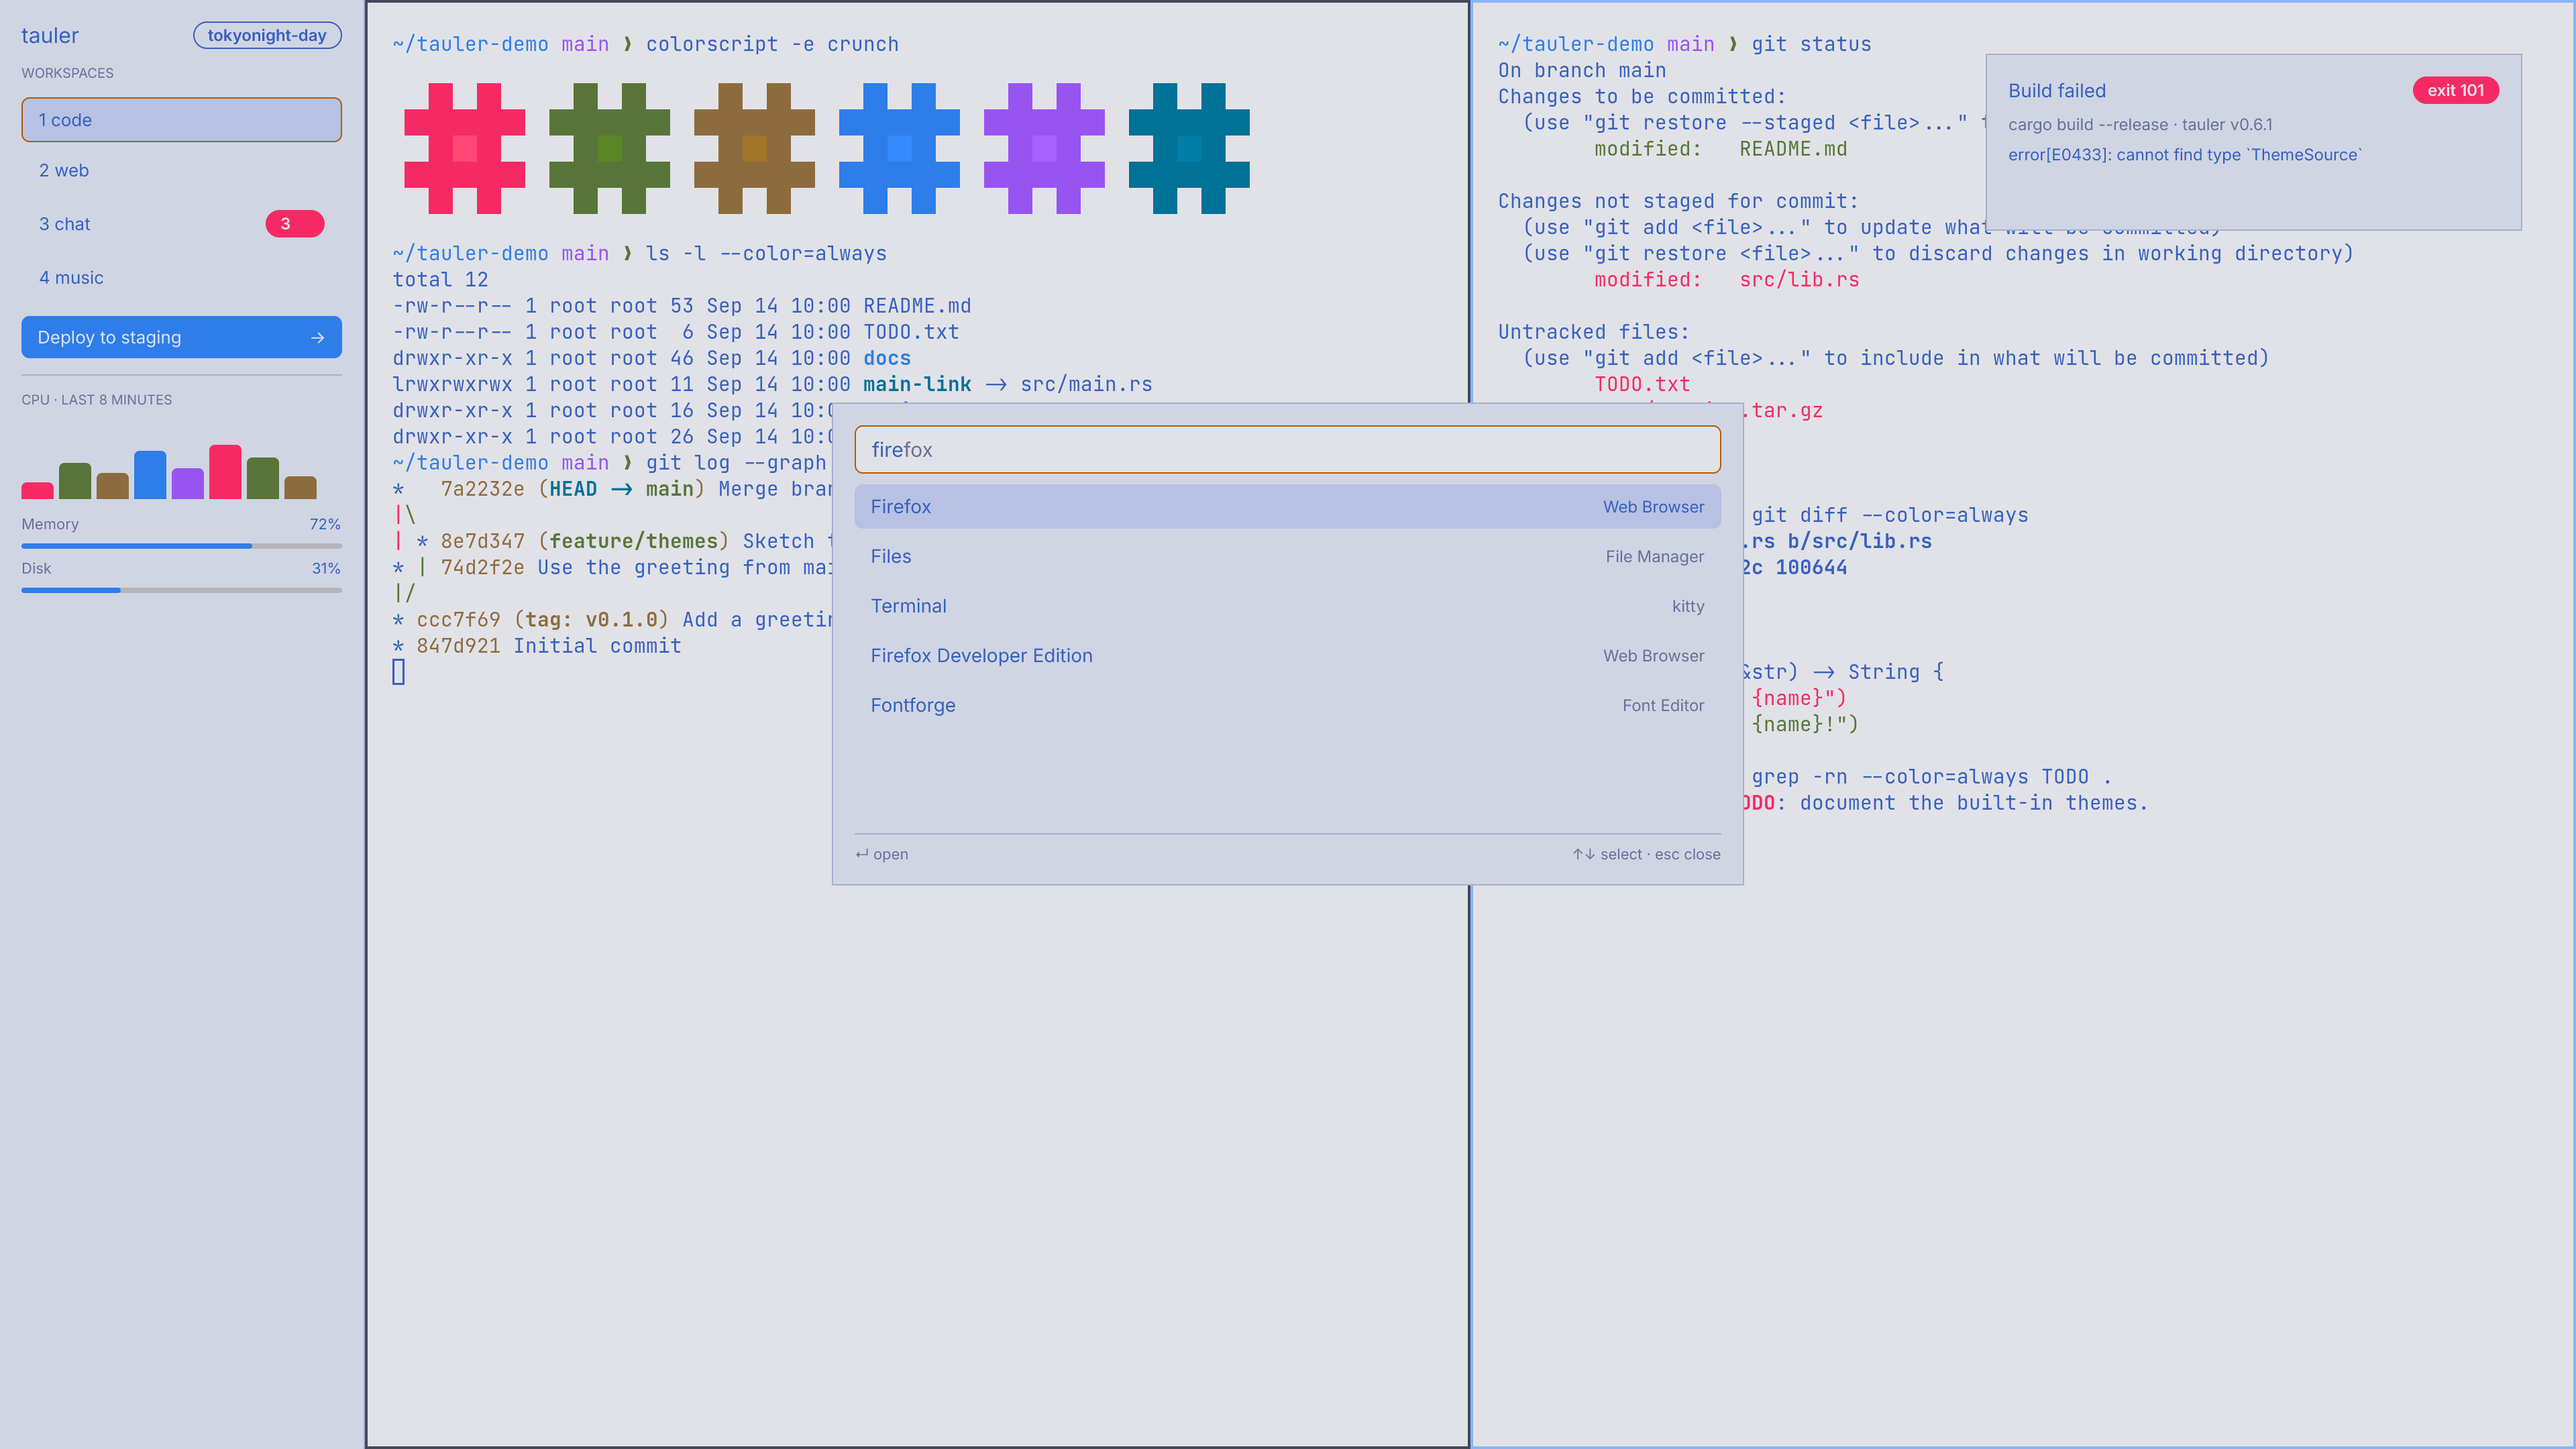
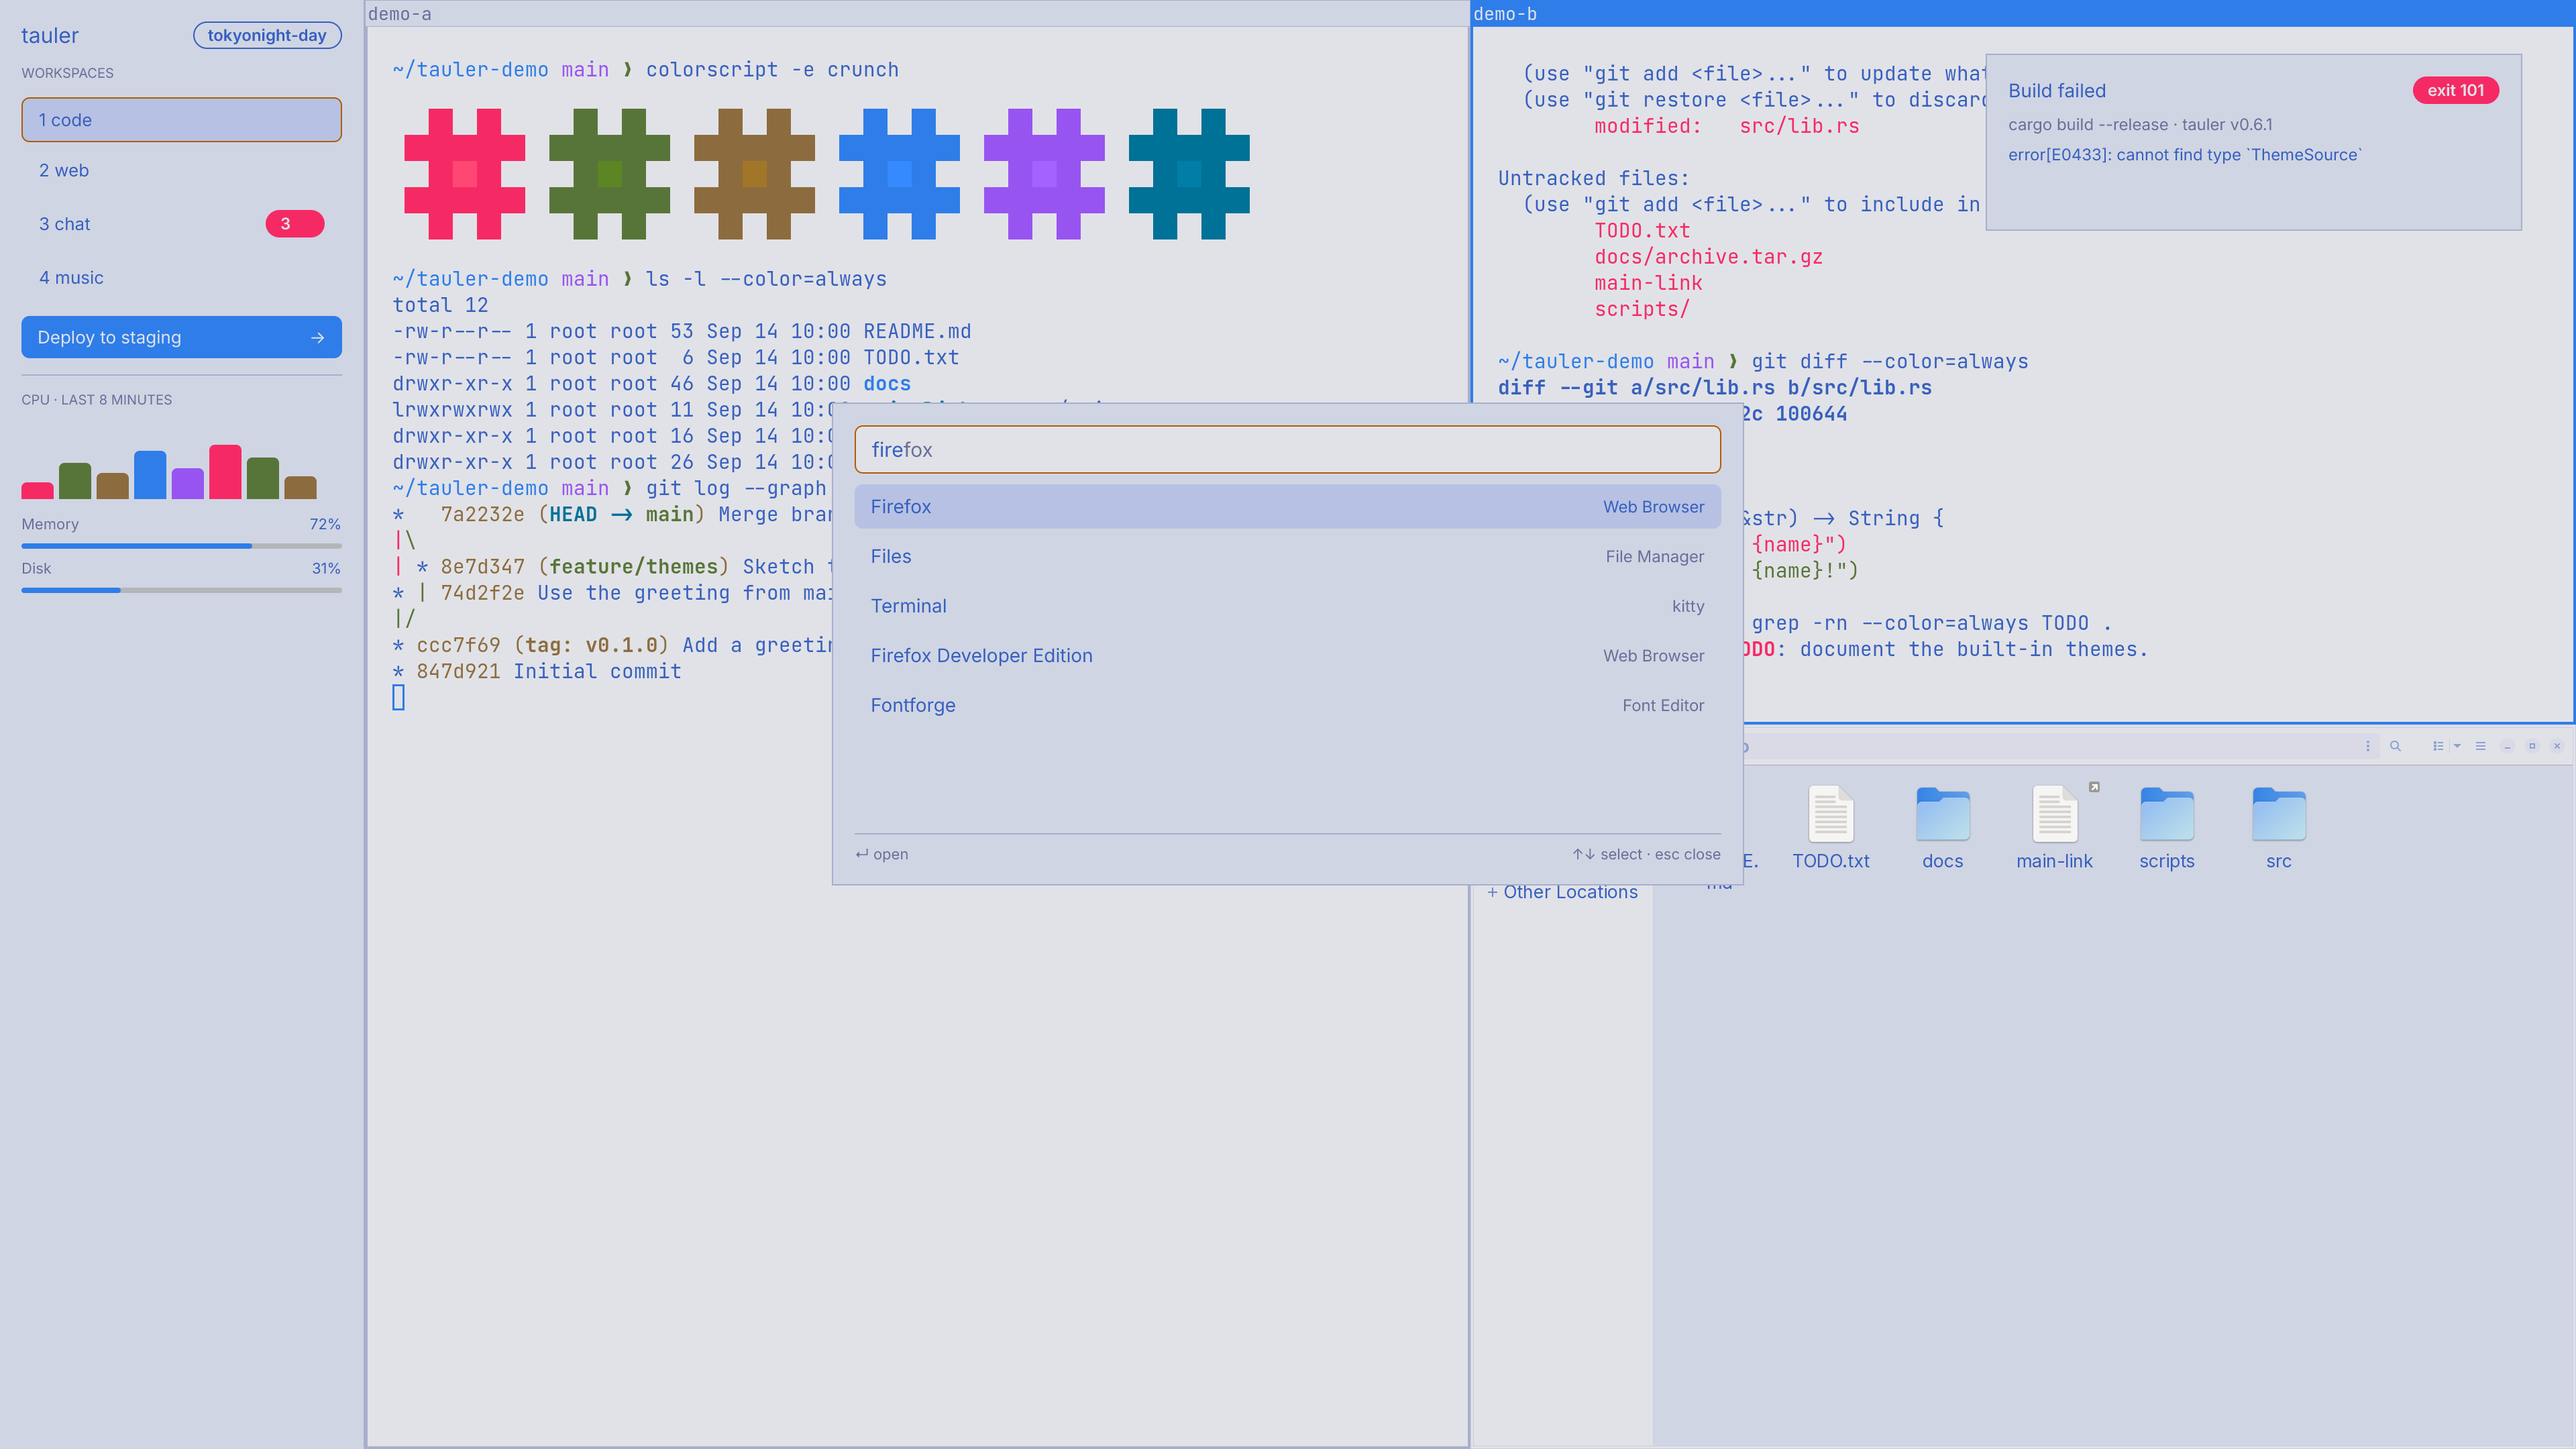
feat: improve themeing demos (#631)

diff --git a/tauler-e2e/tests/scenarios.rs b/tauler-e2e/tests/scenarios.rs
@@ -111,37 +111,24 @@ fn workspaces_frames_the_area_beside_the_sidebar() -> Result<()> {
     Ok(())
 }
 
-/// A kitty colours file for `theme`: its background, foreground and the 16 `ansi-*`
-/// tokens as `color0`..`color15`. This is the one place a terminal is told what the theme is —
-/// there is no layout-side API for it yet, so the test does it from the Rust `Theme` directly.
-fn kitty_colors(theme: &tauler_core::theme::Theme) -> String {
-    let colors = &theme.colors;
-    let get = |key: &str| {
-        colors
-            .get(key)
-            .unwrap_or_else(|| panic!("theme `{}` has no `{key}`", theme.name))
-            .clone()
-    };
-    let mut out = format!(
-        "background {}\nforeground {}\ncursor {}\nselection_background {}\nselection_foreground {}\n",
-        get("background"),
-        get("foreground"),
-        get("foreground"),
-        get("accent"),
-        get("accent-foreground"),
-    );
-    let names = [
-        "black", "red", "green", "yellow", "blue", "magenta", "cyan", "white",
-    ];
-    for (i, name) in names.iter().enumerate() {
-        out.push_str(&format!("color{i} {}\n", get(&format!("ansi-{name}"))));
-        out.push_str(&format!(
-            "color{} {}\n",
-            i + 8,
-            get(&format!("ansi-bright-{name}"))
-        ));
-    }
-    out
+/// How many pixels of `png` inside `x0..x1`, `y0..y1` are exactly `rgb`.
+fn pixels_of(
+    png: &std::path::Path,
+    x: std::ops::Range<u32>,
+    y: std::ops::Range<u32>,
+    rgb: [u8; 3],
+) -> usize {
+    let img = image::open(png).expect("decode screenshot").to_rgba8();
+    y.flat_map(|y| x.clone().map(move |x| (x, y)))
+        .filter(|&(x, y)| img.get_pixel_checked(x, y).is_some_and(|p| p.0[..3] == rgb))
+        .count()
+}
+
+/// `#rrggbb` as bytes.
+fn rgb_of(theme: &tauler_core::theme::Theme, token: &str) -> [u8; 3] {
+    let hex = &theme.colors[token];
+    let byte = |i: usize| u8::from_str_radix(&hex[1 + 2 * i..3 + 2 * i], 16).expect("hex colour");
+    [byte(0), byte(1), byte(2)]
 }
 
 /// What a built-in theme is expected to draw, written by hand from its theme file.
@@ -153,11 +140,11 @@ struct Palette {
 
 /// A built-in theme, selected by `theme.name` alone — no theme file in the fixture.
 ///
-/// The desktop is a left rail, two free-floating plates (a notification and a launcher) and two
-/// kitty terminals, each drawn from the tokens a UI would use for that surface. Pixels where
+/// The desktop is a left rail, two free-floating plates (a notification and a launcher), two
+/// kitty terminals and a GTK4 file manager (Nautilus), each drawn from the tokens a UI would use for that surface. Pixels where
 /// nothing else is drawn are therefore exact tokens: the rail's bottom edge is the theme's
 /// `sidebar`, the launcher's bottom-right padding its `popover`, and an empty stretch of a
-/// terminal its `background` — which kitty only has because the test wrote it from this theme.
+/// terminal its `background` — which kitty only has because tauler wrote it from this theme (`KittyTheme`).
 /// That proves the name resolved to the built-in, the mode picked the right palette, and that
 /// each surface reached for its own token.
 fn builtin_theme_scenario(
@@ -177,11 +164,6 @@ fn builtin_theme_scenario(
         dpi: 96 * K,
     };
     let theme = tauler_core::theme::builtin::by_name(theme_name).expect("built-in theme");
-    std::fs::write(
-        tauler_e2e::scenario_out_dir(scenario)?.join("kitty-colors.conf"),
-        kitty_colors(&theme),
-    )?;
-
     let k = K as i32;
     let (_desktop, screenshot) = run_on(
         screen,
@@ -199,7 +181,7 @@ fn builtin_theme_scenario(
                 rect(1480 * k, 40 * k, 400 * K, 132 * K),
                 rect(620 * k, 300 * k, 680 * K, 360 * K),
             ],
-            clients: 2,
+            clients: 3,
         },
     )?;
     let [r, g, b, _] = pixel_at(&screenshot, 136 * K, 1070 * K)?;
@@ -214,6 +196,24 @@ fn builtin_theme_scenario(
         [r, g, b],
         expected.popover,
         "the launcher's own pixel is not the theme's `popover`"
+    );
+    // i3's own chrome: the two terminals' title bars sit along the top of the area right of the
+    // rail, clear of the notification. One window is focused (title bar in `primary`), the other
+    // not (`card`) — both only because tauler wrote i3's colours from this theme (`I3Theme`).
+    let bars = (272 * K)..(1400 * K);
+    let top = 0..(40 * K);
+    assert!(
+        pixels_of(
+            &screenshot,
+            bars.clone(),
+            top.clone(),
+            rgb_of(&theme, "primary")
+        ) > 500,
+        "no title bar in the theme's `primary` — i3 did not get the colours for the focused window"
+    );
+    assert!(
+        pixels_of(&screenshot, bars, top, rgb_of(&theme, "card")) > 500,
+        "no title bar in the theme's `card` — i3 did not get the colours for an unfocused window"
     );
     // An empty stretch of the left terminal, below its output and clear of the launcher.
     let [r, g, b, _] = pixel_at(&screenshot, 500 * K, 1000 * K)?;
